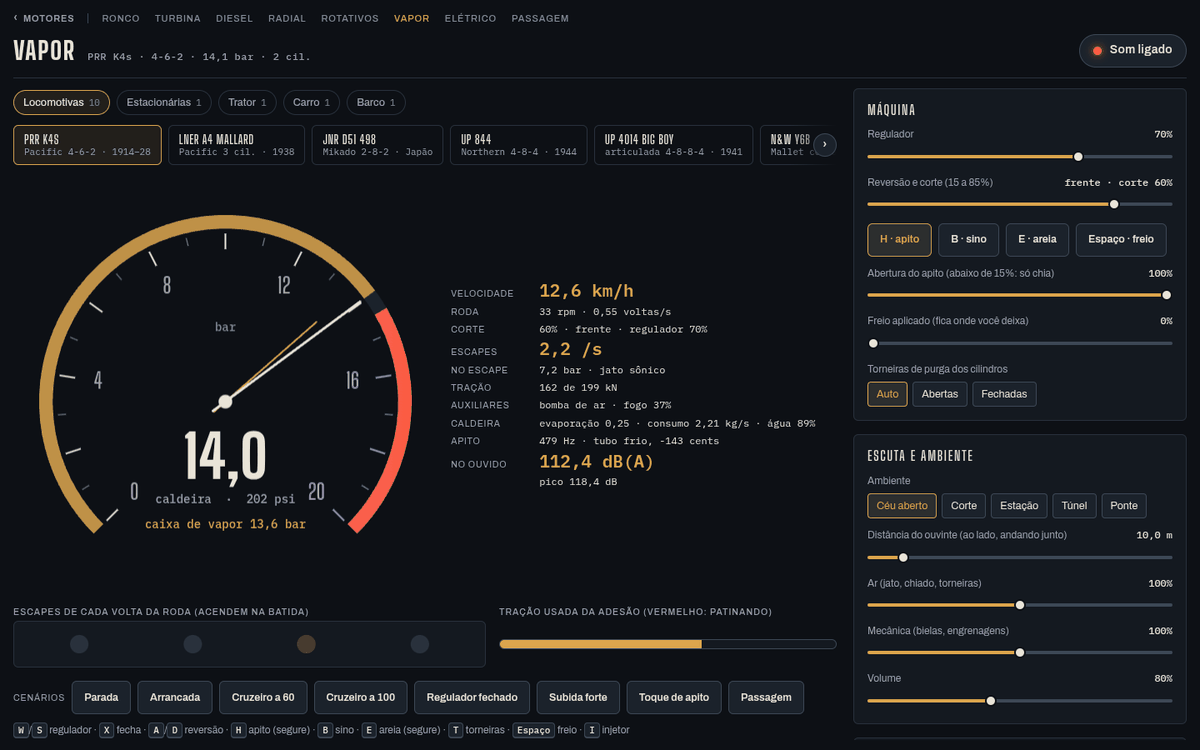
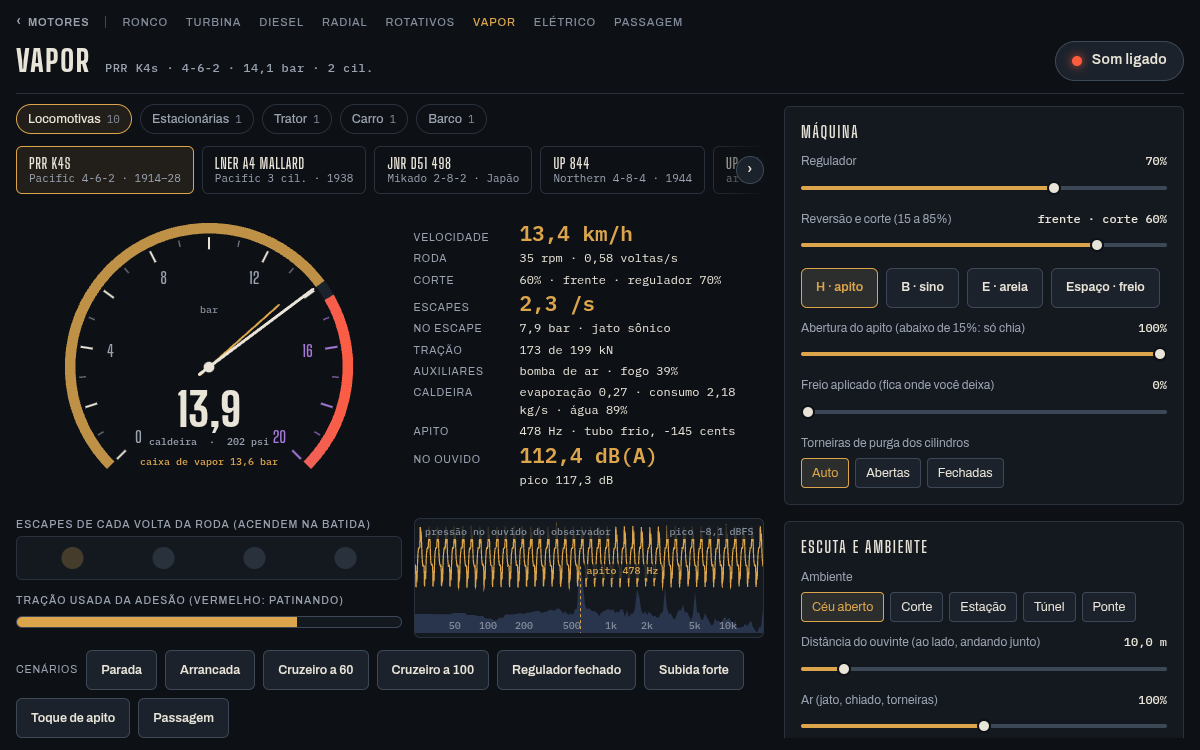
V6 / I9: onda e espectro no Vapor
O Vapor era a única página sem o quadro de onda e espectro. Entra a
`.scope-wrap` com o canvas `#scope` das outras páginas, no mesmo
desenho (onda dourada em cima, espectro log preenchido em azul, legendas
com fundo, aviso vazio centrado, marcadores em filas sem colisão), com as
notas do apito marcadas quando ele soa.

O desenho ficava copiado dentro do Ronco e da Turbina, preso ao controle
de cada um; a peça comum é src/ui/onda.ts (`OndaEEspectro`), que o Vapor
usa e para onde as outras vão quando as páginas a pistão forem
unificadas (F1; as pastas delas estão com outros agentes agora). Ela tem
a escala do Ronco (fixa) e a do osciloscópio da Passagem ('pico', com
piso em −26 dBFS e o pico no canto): o Vapor usa a cadeia de escala
absoluta, em que 85 dB(A) no ouvido ficam em −40 dBFS e a onda fixa era
uma reta.

Layout: uma linha de 150 px (130 no celular) entre a faixa dos escapes e
os cenários; no notebook baixo (largura > 1100, altura ≤ 820) a onda vai
para o lado dos escapes, numa linha de 120 px, porque numa linha a mais as
leituras passavam por cima das faixas (visto em 1200 × 750).

Conferido nas capturas (1280, 1100, 400 e 1200/1366 × 750): auditoria
automática em zero; o teste do Vapor confere a onda desenhando. O
tools/capturas.mjs ganha --altura (as imagens de docs/ui/ são 1200 × 750)
e docs/ui/vapor.png é refeita.

diff --git a/src/ui/onda.ts b/src/ui/onda.ts
@@ -1,0 +1,140 @@
+// Onda e espectro do som que chega ao ouvinte: o instrumento das páginas de motor (a caixa `.scope-wrap` com o canvas
+// `#scope`, em src/ui/estilo.css), no mesmo desenho do Ronco e da Turbina. Em cima, a forma de onda: traço dourado em
+// volta da linha do zero. Embaixo, o espectro em escala logarítmica (de 20 Hz a `f1`), preenchido em azul, com as
+// frequências marcadas; os marcadores das fontes (nome e frequência) em traço tracejado, cada rótulo na primeira fila em
+// que não encosta nos outros. As legendas têm fundo, para o traço não passar por cima das letras; sem áudio, o aviso fica
+// centrado. Lê o AnalyserNode da saída da cadeia de áudio (src/ui/audio).
+//
+// O Ronco (com o Diesel, o Radial e os Rotativos) e a Turbina ainda desenham cada um a sua cópia deste quadro
+// (src/pages/ronco/mostradores.ts, src/pages/turbina/desenho.ts), com o marcador próprio de cada família; esta é a peça
+// comum, usada pelo Vapor, para onde as outras vão quando as páginas a pistão forem unificadas.
+
+export type MarcaEspectro = { f: number; rotulo: string; cor?: 'gold' | 'violet' | 'hot' | 'blue' };
+export type OpcoesOnda = {
+  /** aviso do estado vazio (ainda sem áudio), centrado na parte do espectro */
+  vazio: string;
+  /** legenda da onda, no canto de cima */
+  legenda?: string;
+  /** amostras mostradas na onda (padrão: a janela inteira do analisador) */
+  amostras?: number;
+  /** escala da onda: 'fixa' (0 dBFS no alto, para as páginas com ganho de saída: Ronco, Turbina) ou 'pico' (o pico da
+   *  janela no alto, com piso em −26 dBFS e a leitura do pico no canto, como o osciloscópio da Passagem: para a cadeia de
+   *  escala absoluta, em que 85 dB(A) no ouvido ficam em −40 dBFS e a onda fixa seria uma reta) */
+  escala?: 'fixa' | 'pico';
+  /** fim do eixo do espectro, em Hz (o começo é 20 Hz) */
+  f1?: number;
+  /** marcadores das fontes no espectro */
+  marcas?: MarcaEspectro[];
+};
+
+const clamp = (x: number, a: number, b: number) => Math.min(b, Math.max(a, x));
+const inteiro = new Intl.NumberFormat('pt-BR', { maximumFractionDigits: 0 });
+
+function caber(cv: HTMLCanvasElement): [CanvasRenderingContext2D, number, number] {
+  const r = cv.getBoundingClientRect();
+  const dpr = Math.min(2, window.devicePixelRatio || 1);
+  const w = Math.max(1, Math.round(r.width * dpr)), h = Math.max(1, Math.round(r.height * dpr));
+  if (cv.width !== w || cv.height !== h) { cv.width = w; cv.height = h; }
+  const g = cv.getContext('2d')!;
+  g.setTransform(dpr, 0, 0, dpr, 0, 0);
+  return [g, r.width, r.height];
+}
+
+export class OndaEEspectro {
+  private tBuf: Float32Array<ArrayBuffer> | null = null;
+  private fBuf: Float32Array<ArrayBuffer> | null = null;
+  private C: Record<string, string> | null = null;
+
+  /** cores e fontes dos tokens do tema (lidas no primeiro quadro; de novo quando as fontes chegam) */
+  lerCores() {
+    const css = (n: string) => getComputedStyle(document.documentElement).getPropertyValue(n).trim();
+    const C: Record<string, string> = {};
+    for (const k of ['panel', 'line', 'ink', 'muted', 'faint', 'gold', 'blue', 'violet', 'hot']) C[k] = css(`--${k}`);
+    C.mono = css('--f-mono');
+    this.C = C;
+  }
+
+  desenhar(cv: HTMLCanvasElement, an: AnalyserNode | null | undefined, sr: number, o: OpcoesOnda) {
+    if (!this.C) { this.lerCores(); if (document.fonts) document.fonts.ready.then(() => this.lerCores()); }
+    const C = this.C!;
+    const [g, w, h] = caber(cv);
+    g.clearRect(0, 0, w, h);
+    const mid = h * 0.32;
+    g.strokeStyle = C.line; g.lineWidth = 1;
+    g.beginPath(); g.moveTo(0, mid); g.lineTo(w, mid); g.stroke();
+    g.font = `500 10px ${C.mono}`; g.textAlign = 'left'; g.textBaseline = 'top';
+    const legenda = (t: string, x: number, y: number, cor: string) => {
+      const lw = g.measureText(t).width, x0 = g.textAlign === 'right' ? x - lw : x;
+      g.fillStyle = C.panel; g.globalAlpha = 0.82; g.fillRect(x0 - 3, y - 2, lw + 6, 14); g.globalAlpha = 1;
+      g.fillStyle = cor; g.fillText(t, x, y);
+    };
+    const titulo = o.legenda ?? 'pressão no ouvido do observador';
+    if (!an) {
+      legenda(titulo, 10, 8, C.faint);
+      g.fillStyle = C.muted; g.textAlign = 'center'; g.textBaseline = 'middle';
+      g.fillText(o.vazio, w / 2, h * 0.66);
+      g.textAlign = 'left'; g.textBaseline = 'alphabetic';
+      return;
+    }
+    if (!this.tBuf || this.tBuf.length !== an.fftSize) { this.tBuf = new Float32Array(an.fftSize); this.fBuf = new Float32Array(an.frequencyBinCount); }
+    const tBuf = this.tBuf, fBuf = this.fBuf!;
+    an.getFloatTimeDomainData(tBuf);
+    // onda: as últimas `amostras` da janela
+    const span = Math.min(tBuf.length, Math.max(256, o.amostras ?? tBuf.length));
+    let pk = 0;
+    for (let i = tBuf.length - span; i < tBuf.length; i++) pk = Math.max(pk, Math.abs(tBuf[i]));
+    const esc = o.escala === 'pico' ? Math.max(0.05, pk) * 1.1 : 1;
+    g.strokeStyle = C.gold; g.lineWidth = 1.2;
+    g.beginPath();
+    let s2 = 0;
+    for (let i = 0; i < span; i++) {
+      const v = tBuf[tBuf.length - span + i];
+      s2 += v * v;
+      const x = (i / (span - 1)) * w, y = mid - (v / esc) * mid * 0.9;
+      if (i) g.lineTo(x, y); else g.moveTo(x, y);
+    }
+    g.stroke();
+    // (para os testes de navegador: o nível RMS da janela mostrada, em dBFS)
+    cv.dataset.rms = (10 * Math.log10(s2 / span + 1e-20)).toFixed(1);
+    // espectro (log)
+    an.getFloatFrequencyData(fBuf);
+    const top = h * 0.66, bot = h - 4, f0 = 20, f1 = o.f1 ?? 16000;
+    const fx = (f: number) => (Math.log(f / f0) / Math.log(f1 / f0)) * w;
+    g.beginPath(); g.moveTo(0, bot);
+    for (let x = 0; x <= w; x += 2) {
+      const f = f0 * Math.pow(f1 / f0, x / w);
+      const bin = Math.round((f / (sr / 2)) * fBuf.length);
+      const db = fBuf[Math.min(bin, fBuf.length - 1)];
+      g.lineTo(x, bot - clamp((db + 110) / 90, 0, 1) * (bot - top + h * 0.28));
+    }
+    g.lineTo(w, bot); g.closePath();
+    g.fillStyle = C.blue; g.globalAlpha = 0.22; g.fill(); g.globalAlpha = 1;
+    // marcadores: cada rótulo na primeira fila em que não encosta nos que já estão lá (à direita do traço; perto da
+    // borda, à esquerda)
+    const filas: [number, number][][] = [[], [], [], []];
+    for (const m of [...(o.marcas ?? [])].sort((a, b) => a.f - b.f)) {
+      if (!(m.f > f0 && m.f < f1)) continue;
+      const x = fx(m.f), texto = `${m.rotulo ? `${m.rotulo} ` : ''}${inteiro.format(m.f)} Hz`, lw = g.measureText(texto).width;
+      const esq = x + 6 + lw > w - 4;
+      const a = esq ? x - 6 - lw : x + 6, b = a + lw;
+      let fila = filas.findIndex((f) => f.every(([p, q]) => b + 8 < p || a - 8 > q));
+      if (fila < 0) fila = filas.length - 1;
+      filas[fila].push([a, b]);
+      const y = top - h * 0.26 + fila * 14, cor = C[m.cor ?? 'gold'];
+      g.strokeStyle = cor; g.setLineDash([3, 3]);
+      g.beginPath(); g.moveTo(x, y); g.lineTo(x, bot); g.stroke(); g.setLineDash([]);
+      g.textAlign = 'left';
+      legenda(texto, a, y, cor);
+    }
+    g.fillStyle = C.faint; g.textAlign = 'right';
+    for (const f of [50, 100, 200, 500, 1000, 2000, 5000, 10000]) if (f < f1 && fx(f) > 24) g.fillText(f >= 1000 ? `${f / 1000}k` : String(f), fx(f) - 2, bot - 12);
+    g.textAlign = 'left';
+    legenda(titulo, 10, 8, C.faint);
+    if (o.escala === 'pico') {
+      g.textAlign = 'right';
+      legenda(`pico ${(20 * Math.log10(pk + 1e-9)).toFixed(1).replace('.', ',').replace('-', '−')} dBFS`, w - 10, 8, C.faint);
+      g.textAlign = 'left';
+    }
+    g.textBaseline = 'alphabetic';
+  }
+}

diff --git a/src/pages/vapor/PaginaVapor.tsx b/src/pages/vapor/PaginaVapor.tsx
@@ -1,9 +1,10 @@
-// Página do Vapor (docs/VAPOR.md 6): famílias e máquinas em chips, manômetro, fita de escapes e leituras, cenários e o
+// Página do Vapor (docs/VAPOR.md 6): famílias e máquinas em chips, manômetro, fita de escapes e leituras, onda e
+// espectro (o instrumento comum das páginas de motor, src/ui/onda.ts, com as notas do apito marcadas), cenários e o
 // painel. O som é a Cena (processador `vapor` = CenaDSP com o portador do preset e o VaporDSP), com a cadeia da Passagem
 // (escala absoluta, reverberação por banda). O React monta a estrutura; o estado fica em ControleVapor e os mostradores
 // são desenhados num só requestAnimationFrame lendo a telemetria de um campo.
 import { memo, useEffect, useRef, useState, useSyncExternalStore } from 'react';
-import { AudioShell, Barra, BotaoIgnicao, FamilyNav, PresetNav, PERFIL_PASSAGEM, useAudioShell } from '../../ui';
+import { AudioShell, Barra, BotaoIgnicao, FamilyNav, OndaEEspectro, PresetNav, PERFIL_PASSAGEM, useAudioShell } from '../../ui';
 import { CenaDSP } from '../../scene/dsp-cena';
 import urlVapor from '../../worklet/processador-vapor.ts?worker&url';
 import { PRESETS_VAPOR, FAMILIAS_VAPOR, type FamiliaVapor } from '../../engines/vapor/presets';
@@ -29,14 +30,14 @@ function Interior({ k }: { k: ControleVapor }) {
   const { iniciar, estado, erro } = useAudioShell();
   k.iniciar = iniciar;
   const e = useSyncExternalStore(k.assinar, k.obter);
-  const cvM = useRef<HTMLCanvasElement>(null), cvF = useRef<HTMLCanvasElement>(null);
+  const cvM = useRef<HTMLCanvasElement>(null), cvF = useRef<HTMLCanvasElement>(null), cvS = useRef<HTMLCanvasElement>(null);
   const leituras = useRef<Leituras>({});
   usarTeclado(k);
 
   useEffect(() => {
     // alça para os testes no navegador (tools/vapor-navegador.mjs)
     (window as any).__vapor = k;
-    const pico = new MedidorPico();
+    const pico = new MedidorPico(), onda = new OndaEEspectro();
     let id = 0, n = 0;
     const quadro = (agora: number) => {
       k.quadro(agora);
@@ -46,6 +47,14 @@ function Interior({ k }: { k: ControleVapor }) {
         escreverLeituras(k, leituras.current, pk);
       }
       if (cvF.current) desenharFita(k, cvF.current);
+      if (cvS.current) {
+        // as notas do apito, quando ele soa (a batida do escape, de 1 a 20 por segundo, fica abaixo do eixo)
+        const fa = (k.tele?.motor?.fApito || []).filter((f: number) => f > 0);
+        onda.desenhar(cvS.current, k.audio?.analyser, k.audio?.ctx.sampleRate ?? 48000, {
+          vazio: 'ligue o som para ver a onda e o espectro', escala: 'pico',
+          marcas: fa.map((f: number, i: number) => ({ f, rotulo: i === 0 ? 'apito' : '', cor: 'gold' as const })),
+        });
+      }
       id = requestAnimationFrame(quadro);
     };
     id = requestAnimationFrame(quadro);
@@ -81,6 +90,9 @@ function Interior({ k }: { k: ControleVapor }) {
             <figcaption className="legenda">Tração usada da adesão (vermelho: patinando)</figcaption>
             <div className="esforco" role="img" aria-label="Fração da adesão usada pelo esforço de tração"><i id="barraEsforco" ref={(el) => { if (el) leituras.current.barraEsforco = el; }} /></div>
           </figure>
+        </section>
+        <section className="scope-wrap" aria-label="Forma de onda e espectro">
+          <canvas id="scope" ref={cvS} role="img" aria-label="Forma de onda e espectro do som no ouvido do observador" />
         </section>
         <section className="drive">
           <div className="gearbox" id="cenarios" role="group" aria-label="Cenários">

diff --git a/src/pages/vapor/vapor.css b/src/pages/vapor/vapor.css
@@ -1,9 +1,10 @@
 /* Página do Vapor: manômetro (solto, como os outros mostradores redondos) e leituras em cima, a faixa dos escapes e da
-   tração no meio, os cenários embaixo. Peças e tokens de src/ui/estilo.css. */
+   tração, a onda e o espectro (a `.scope-wrap` das outras páginas, na mesma altura), os cenários embaixo. Peças e
+   tokens de src/ui/estilo.css. */
 .vapor .painel-vapor {
   grid-template-columns: minmax(0, 1.1fr) minmax(0, 1fr);
-  grid-template-rows: minmax(0, 1fr) auto auto;
-  grid-template-areas: "mano tele" "fita fita" "drive drive";
+  grid-template-rows: minmax(0, 1fr) auto 150px auto;
+  grid-template-areas: "mano tele" "fita fita" "scope scope" "drive drive";
 }
 .manometro { grid-area: mano; min-height: 260px; min-width: 0; }
 #manometro { width: 100%; height: 100%; display: block; }
@@ -14,11 +15,20 @@
 .esforco i { display: block; height: 100%; width: 0%; background: var(--gold); transition: width .1s; }
 .esforco i.patina { background: var(--hot); }
 .vapor .drive { display: grid; gap: var(--e-2); justify-content: stretch; }
+/* (notebook de 768 px de altura: numa linha a mais a onda tiraria do manômetro a altura das leituras, que passavam por
+   cima das faixas; ela vai para o lado dos escapes, que ficam um sobre o outro, numa linha de altura fixa) */
+@media (min-width: 1101px) and (max-height: 820px) {
+  .vapor .painel-vapor { grid-template-rows: minmax(0, 1fr) 120px auto; grid-template-areas: "mano tele" "fita scope" "drive drive"; gap: var(--e-3); }
+  .fita { grid-template-columns: minmax(0, 1fr); gap: var(--e-2); align-items: start; }
+  .fita .quadro { height: 44px; }
+  .esforco { margin-block: 4px; }
+  .manometro { min-height: 220px; }
+}
 @media (max-width: 1100px) {
-  .vapor .painel-vapor { grid-template-rows: 340px auto auto; }
+  .vapor .painel-vapor { grid-template-rows: 340px auto 150px auto; }
 }
 @media (max-width: 720px) {
-  .vapor .painel-vapor { grid-template-columns: minmax(0, 1fr); grid-template-rows: 280px auto auto auto; grid-template-areas: "mano" "tele" "fita" "drive"; }
+  .vapor .painel-vapor { grid-template-columns: minmax(0, 1fr); grid-template-rows: 280px auto auto 130px auto; grid-template-areas: "mano" "tele" "fita" "scope" "drive"; }
   .fita { grid-template-columns: minmax(0, 1fr); gap: var(--e-3); }
   .esforco { margin-block: 4px; }
 }

diff --git a/src/ui/index.ts b/src/ui/index.ts
@@ -9,4 +9,5 @@ export { Barra, BotaoIgnicao } from './Barra';
 export { Manete, segurarManete, VELOCIDADE_MANETE, type ManeteProps, type MarcaManete } from './Manete';
 export { PAGINAS, paginaAtual, type Pagina } from './paginas';
 export { dec, num, grau, resumoGraus, listaGraus } from './formato';
+export { OndaEEspectro, type MarcaEspectro, type OpcoesOnda } from './onda';
 export * from './audio';
